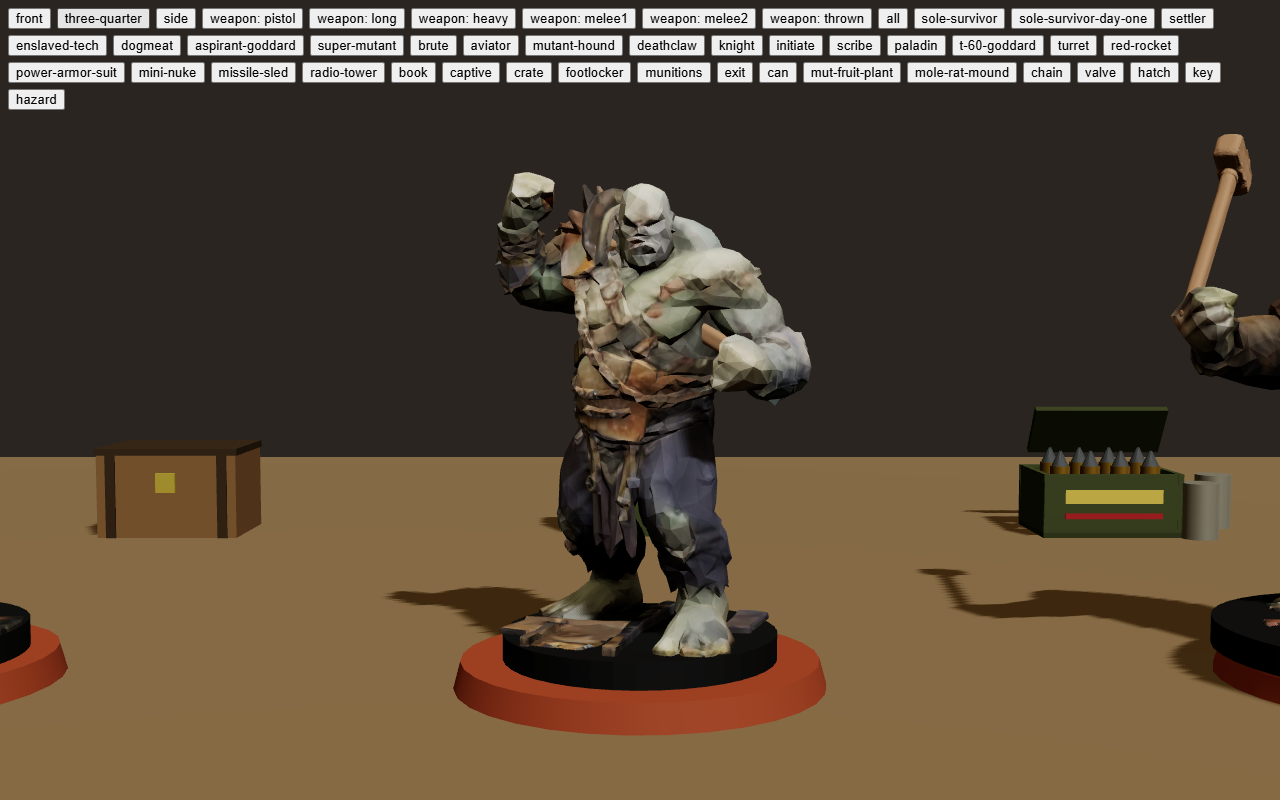
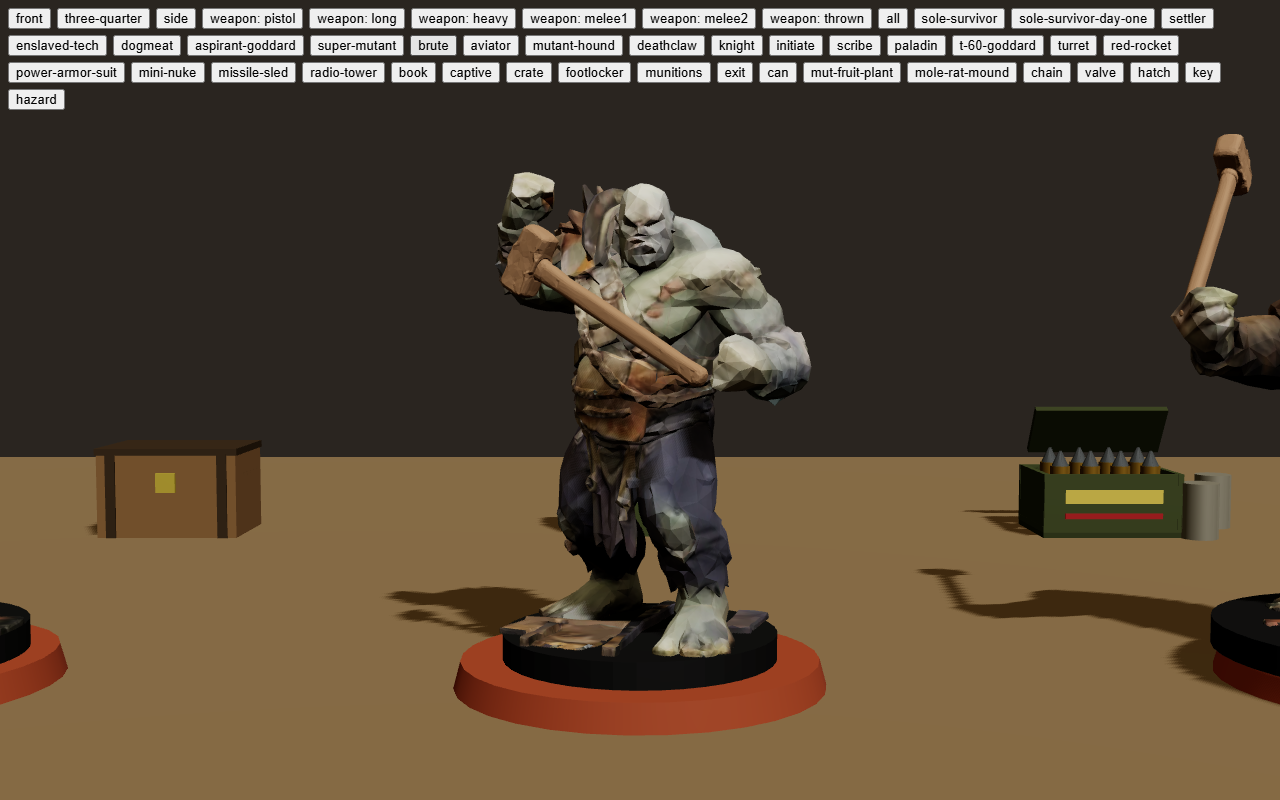
M5: audition page served from public/, compact decision prompt bar, sound controls clear of the key hints, weapons drawn while a pose GLB loads, Brute melee sockets forward

Changed region(s): [[0.375, 0.2812, 0.5625, 0.625], [0.3438, 0.7812, 0.375, 0.8125], [0.3125, 0.75, 0.3438, 0.7812]]

diff --git a/public/sounds.html b/public/sounds.html
@@ -28,6 +28,11 @@
 <p class="note">Tap an id to play it; tapping another stops the first. Music can loop to check the seam. Name the ids to redo and they get regenerated with a new seed.</p>
 <div id="err"></div>
 <div id="groups"></div>
+<h2>Synthesised fallback</h2>
+<p class="note">The built-in synth plays when a file is missing. Auditioning it needs the dev server (npm run dev), which serves its source; on the published site this section says so.</p>
+<div id="synth-note" class="note"></div>
+<div id="synth" class="grid"></div>
+<div id="synth-moods" class="grid" style="margin-top:8px"></div>
 <div class="bar">
   <b id="now">nothing playing</b>
   <input id="seek" type="range" min="0" max="1000" value="0" aria-label="Position">
@@ -97,6 +102,40 @@
     });
   }).catch(function (e) { $('err').textContent = 'Could not load the audio manifest: ' + e.message; });
 })();
+</script>
+<script type="module">
+// Synthesised fallback (recipes in src/client/audio/synth.ts). Only reachable from the Vite dev server; a build bundles it into the game, not this page.
+var note = document.getElementById('synth-note');
+try {
+  var path = '../src/client/audio/synth.ts';
+  var mod = await import(/* @vite-ignore */ new URL(path, location.href).pathname);
+  var ctx = new (window.AudioContext || window.webkitAudioContext)();
+  var out = ctx.createGain(); out.gain.value = 0.8; out.connect(ctx.destination);
+  var music = ctx.createGain(); music.gain.value = 0.2; music.connect(ctx.destination);
+  var grid = document.getElementById('synth');
+  mod.SOUND_IDS.forEach(function (id) {
+    var b = document.createElement('button'); b.type = 'button'; b.textContent = id; b.dataset.sound = id;
+    b.addEventListener('click', async function () { await ctx.resume(); mod.RECIPES[id]({ ctx: ctx, out: out, t: ctx.currentTime + 0.02, p: 1, v: 1 }); });
+    grid.appendChild(b);
+  });
+  var player = null, timer = null;
+  function mood(m) {
+    if (player) player.fadeOut(1.8);
+    clearInterval(timer); player = null;
+    if (!m) return;
+    player = new mod.MoodPlayer(ctx, music, m, 1.8);
+    var p = player;
+    timer = setInterval(function () { p.tick(ctx.currentTime + 0.5); }, 120);
+  }
+  var moods = document.getElementById('synth-moods');
+  [['calm', 'Music: calm'], ['battle', 'Music: battle'], [null, 'Music: stop']].forEach(function (x) {
+    var b = document.createElement('button'); b.type = 'button'; b.textContent = x[1];
+    b.addEventListener('click', async function () { await ctx.resume(); mood(x[0]); });
+    moods.appendChild(b);
+  });
+} catch (e) {
+  note.textContent = 'Synth section unavailable here (dev server only).';
+}
 </script>
 </body>
 </html>

diff --git a/src/client/figures/Figures.tsx b/src/client/figures/Figures.tsx
@@ -10,9 +10,10 @@ import { engagedWith } from '../../engine/attack'
 import { recordOf } from '../../engine/edition'
 import { ProceduralFigure } from './Procedural'
 import { GlbBase, GlbBody, useFittedFigure } from './GlbBody'
+import { glbStatus, useGlbStatus } from './glbLoader'
 import { NOMINAL_LENGTH, Weapon } from './Weapon'
 import { isNaturalWeapon, modeOfWeapon, pickEquipped, weaponClassOf, type WeaponClass, type WeaponMode } from './equipped'
-import { aimedPose, figureHeight, heldPose, poseFor, poseGlbUrl, socketFor, unitGlbUrl, useManifest, weaponGlbUrl } from './glbModels'
+import { aimedPose, figureHeight, heldPose, poseFor, poseGlbUrl, readyPose, socketFor, unitGlbUrl, useManifest, weaponGlbUrl } from './glbModels'
 import { facingYaw, lookOf, pipCounts, pipSlots, tintFor, turnToward } from './view'
 
 const TURN_RATE = 9 // rad/s
@@ -64,13 +65,16 @@ export function FigureBody({ id, slug, baseMm, color, accent, profile, cls }: { 
 export function HeldWeapon({ profileId, baseMm, weaponId, mode, accent }: { profileId: string; baseMm: number; weaponId: string | undefined; mode: WeaponMode; accent: string }) {
   const manifest = useManifest()
   const bundle = useBundle()
-  if (!weaponId || isNaturalWeapon(weaponId)) return null
-  const sock = socketFor(manifest, profileId, baseMm)
-  if (!sock) return null
-  const def = bundle ? (recordOf(bundle, 'weapons', weaponId) as Parameters<typeof weaponClassOf>[1]) : undefined
-  const cls = weaponClassOf(weaponId, def)
-  const pe = poseFor(manifest, profileId, cls)
-  const pose = pe ? aimedPose(pe.hand, pe.support) : heldPose(cls, sock.hand, sock.rot)
+  const held = !!weaponId && !isNaturalWeapon(weaponId)
+  const def = held && bundle ? (recordOf(bundle, 'weapons', weaponId) as Parameters<typeof weaponClassOf>[1]) : undefined
+  const cls = held ? weaponClassOf(weaponId, def) : undefined
+  // Until the pose GLB is ready the default figure shows, so the weapon sits at its HOLDS transform (never hidden); then swap.
+  const wanted = poseFor(manifest, profileId, cls)
+  useGlbStatus(wanted ? poseGlbUrl(wanted.file) : undefined)
+  const sock = held ? socketFor(manifest, profileId, baseMm) : undefined
+  if (!weaponId || !held || !sock) return null
+  const pe = readyPose(manifest, profileId, cls, glbStatus)
+  const pose = pe ? aimedPose(pe.hand, pe.support) : heldPose(cls!, sock.hand, sock.rot)
   return (
     <Weapon mode={mode} accent={accent} url={manifest.weapons[weaponId] ? weaponGlbUrl(weaponId) : undefined}
       length={(manifest.weapons[weaponId]?.length ?? NOMINAL_LENGTH[mode]) * Math.max(1, figureHeight(baseMm) / figureHeight(32))}

diff --git a/src/client/ui/hud.css b/src/client/ui/hud.css
@@ -123,7 +123,7 @@
 .rail-left .roster { max-height: calc(100vh - 160px); overflow-y: auto; }
 
 /* prompt dock: narrow, bottom-centre, above a safe area */
-.dock { bottom: 56px; width: min(420px, calc(100vw - 24px)); max-height: 38vh; }
+.dock { bottom: 12px; width: min(420px, calc(100vw - 24px)); max-height: 38vh; }
 .dock .panel { padding: 6px 10px; }
 .hint { margin-bottom: 5px; }
 
@@ -183,3 +183,18 @@
   .sel-chip { display: none; }
   .ai-card { top: 96px; right: 6px; width: 170px; }
 }
+
+/* decision prompt: a compact single-row bar anchored at the bottom (title, one line, buttons), expanding upward on hover or focus.
+   Collapsed it is ~40 px tall, so at 1280x800 it covers well under 90 px of the table above the bottom edge. */
+.dock:has(.prompt.compact) { width: min(660px, calc(100vw - 24px)); }
+.prompt.compact { display: grid; grid-template-columns: auto minmax(0, 1fr) auto; align-items: center; gap: 2px 12px; padding: 5px 10px; }
+.prompt.compact h3 { margin: 0; white-space: nowrap; }
+.prompt.compact .hint { margin: 0; white-space: nowrap; overflow: hidden; text-overflow: ellipsis; }
+.prompt.compact .tip { display: none; }
+.prompt.compact .options { margin: 0; flex-wrap: nowrap; justify-content: flex-end; }
+.prompt.compact .options button { white-space: nowrap; }
+.prompt.compact:hover, .prompt.compact:focus-within { grid-template-columns: minmax(0, 1fr); gap: 4px; padding: 8px 12px; }
+.prompt.compact:hover .hint, .prompt.compact:focus-within .hint { white-space: normal; overflow: visible; }
+.prompt.compact:hover .tip, .prompt.compact:focus-within .tip { display: block; margin: 0; }
+.prompt.compact:hover .options, .prompt.compact:focus-within .options { flex-wrap: wrap; justify-content: flex-start; margin-top: 2px; }
+@media (max-width: 600px) { .dock:has(.prompt.compact) { width: calc(100vw - 16px); } }

diff --git a/tests/client/pose-ready.test.ts b/tests/client/pose-ready.test.ts
@@ -1,0 +1,24 @@
+import { describe, expect, it } from 'vitest'
+import { aimedPose, heldPose, parseManifest, poseGlbUrl, readyPose } from '../../src/client/figures/glbModels'
+
+const m = parseManifest({ units: { brute: { hand: [0.3, 1, 0.2], poses: { melee2: { file: 'units/brute@melee2.glb', hand: [0.3, 1, 0.2], support: [0.1, 1.1, 0.5] } } } } })
+const url = poseGlbUrl('units/brute@melee2.glb')
+
+describe('pose readiness selects where the weapon sits', () => {
+  it('POSE-001 no pose entry: nothing to wait for', () => {
+    expect(readyPose(m, 'brute', 'long', () => 'ready')).toBeUndefined()
+    expect(readyPose(m, 'brute', undefined, () => 'ready')).toBeUndefined()
+  })
+  it('POSE-002 pose still loading or failed: default figure, weapon at its HOLDS transform (never hidden)', () => {
+    for (const st of ['idle', 'loading', 'failed'] as const) {
+      const pe = readyPose(m, 'brute', 'melee2', () => st)
+      expect(pe).toBeUndefined()
+      const pose = pe ? aimedPose(pe.hand, pe.support) : heldPose('melee2', [0.3, 1, 0.2], undefined)
+      expect(pose.position).toEqual([0.3, 1, 0.2])
+    }
+  })
+  it('POSE-003 pose ready: swap to the aimed two-hand placement', () => {
+    const pe = readyPose(m, 'brute', 'melee2', (u) => (u === url ? 'ready' : 'idle'))
+    expect(pe?.file).toBe('units/brute@melee2.glb')
+  })
+})

diff --git a/src/client/ui/styles.css b/src/client/ui/styles.css
@@ -21,7 +21,11 @@ body { margin: 0; overflow: hidden; }
 .hud .title { color: var(--sand); font-weight: 600; margin-right: 8px; }
 
 /* camera presets live bottom-right (the top bar used to cover them); the title is already on the start screen and in the tab */
-.game > .hud { top: auto; left: auto; right: 12px; bottom: 44px; flex-direction: column; align-items: stretch; gap: 4px; }
+.game > .hud { top: auto; left: auto; right: 12px; bottom: 72px; flex-direction: column; align-items: stretch; gap: 4px; }
 .game > .hud .title { display: none; }
 .game > .hud button { padding: 3px 9px; font-size: 12px; }
 @media (max-width: 900px) { .game > .hud { bottom: auto; top: 104px; right: 6px; } }
+
+/* bottom-right corner, bottom to top: key hints (Interaction, bottom 12) / sound buttons (AudioHost, bottom 34, the volume panel opens to their left) / camera presets (bottom 72) */
+[data-testid="audio-toggle"], [data-testid="audio-volume"] { font: inherit; font-size: 12px; background: rgba(29,26,22,.9); color: var(--bone); border: 1px solid var(--teal); border-radius: 4px; padding: 3px 9px; cursor: pointer; }
+[data-testid="audio-toggle"][aria-pressed="true"] { background: var(--teal); color: var(--ink); }

diff --git a/src/client/figures/glbModels.ts b/src/client/figures/glbModels.ts
@@ -131,6 +131,13 @@ export function poseFor(m: Manifest, slug: string | undefined, cls: WeaponClass 
   return slug && cls ? m.units[slug]?.poses?.[cls] : undefined
 }
 
+/** The pose entry to place a held weapon by: the manifest pose only once its GLB is ready (the figure body is then the
+ * posed one), otherwise undefined so the weapon sits at the class HOLDS transform on the default figure. Never hides the weapon. Pure. */
+export function readyPose(m: Manifest, slug: string | undefined, cls: WeaponClass | undefined, statusOf: (url: string) => 'idle' | 'loading' | 'ready' | 'failed'): PoseEntry | undefined {
+  const pe = poseFor(m, slug, cls)
+  return pe && statusOf(poseGlbUrl(pe.file)) === 'ready' ? pe : undefined
+}
+
 /** Weapon placement for a two-hand pose: grip at `hand`, barrel (+z) pointing from hand through `support`, weapon up
  * kept as close to figure up (+y) as the aim allows. Rotation is an XYZ Euler. Pure. */
 export function aimedPose(hand: V3, support: V3): { position: V3; rotation: V3 } {

diff --git a/src/client/figures/glbLoader.ts b/src/client/figures/glbLoader.ts
@@ -54,3 +54,16 @@ export function useGlbInstance(url: string | undefined): Object3D | null {
 }
 
 export const glbStatus = (url: string): 'idle' | 'loading' | 'ready' | 'failed' => cache.get(url)?.status ?? 'idle'
+
+/** Load state of `url` (starts the request); re-renders the caller when any load settles. Cheap: no node clone. */
+export function useGlbStatus(url: string | undefined): 'idle' | 'loading' | 'ready' | 'failed' {
+  const [, setTick] = useState(0)
+  if (url) request(url)
+  useEffect(() => {
+    if (!url) return
+    const l = () => setTick((n) => n + 1)
+    listeners.add(l)
+    return () => { listeners.delete(l) }
+  }, [url])
+  return url ? glbStatus(url) : 'idle'
+}

diff --git a/src/client/audio/AudioHost.tsx b/src/client/audio/AudioHost.tsx
@@ -10,7 +10,7 @@ import { audio, type AudioSettings } from './manager'
 import { roundVoiceId } from './manifest'
 import { yourTurnRound } from './triggers'
 
-const box: React.CSSProperties = { position: 'fixed', right: 12, bottom: 12, zIndex: 6, display: 'flex', flexDirection: 'column', alignItems: 'flex-end', gap: 6 }
+const box: React.CSSProperties = { position: 'fixed', right: 12, bottom: 34, zIndex: 6, display: 'flex', flexDirection: 'row-reverse', alignItems: 'flex-end', gap: 6 }
 
 /** `death-<kind>` for a model, read from its unit record. */
 function deathSoundFor(modelId: string): string {

diff --git a/src/client/ui/Prompt.tsx b/src/client/ui/Prompt.tsx
@@ -8,7 +8,7 @@ export function Prompt({ pending }: { pending: PendingDecision }) {
   const n = useNamers()
   const copy = promptView(pending, n)
   return (
-    <section className="panel prompt" data-testid="hud-prompt" data-kind={pending.kind}>
+    <section className={`panel prompt${copy.form === 'targets' ? '' : ' compact'}`} data-testid="hud-prompt" data-kind={pending.kind}>
       <h3 data-testid="prompt-title">{copy.title}</h3>
       <p className="hint" data-testid="prompt-hint">{copy.hint}</p>
       {copy.tip && <p className="tip" data-testid="prompt-tip">{copy.tip}</p>}

diff --git a/vite.config.ts b/vite.config.ts
@@ -11,7 +11,7 @@ export default defineConfig(({ mode }) => ({
   build: {
     chunkSizeWarningLimit: 800,
     rolldownOptions: {
-      input: { main: fileURLToPath(new URL('./index.html', import.meta.url)), sounds: fileURLToPath(new URL('./sounds.html', import.meta.url)) },
+      input: { main: fileURLToPath(new URL('./index.html', import.meta.url)) },
       output: {
         codeSplitting: {
           groups: [
